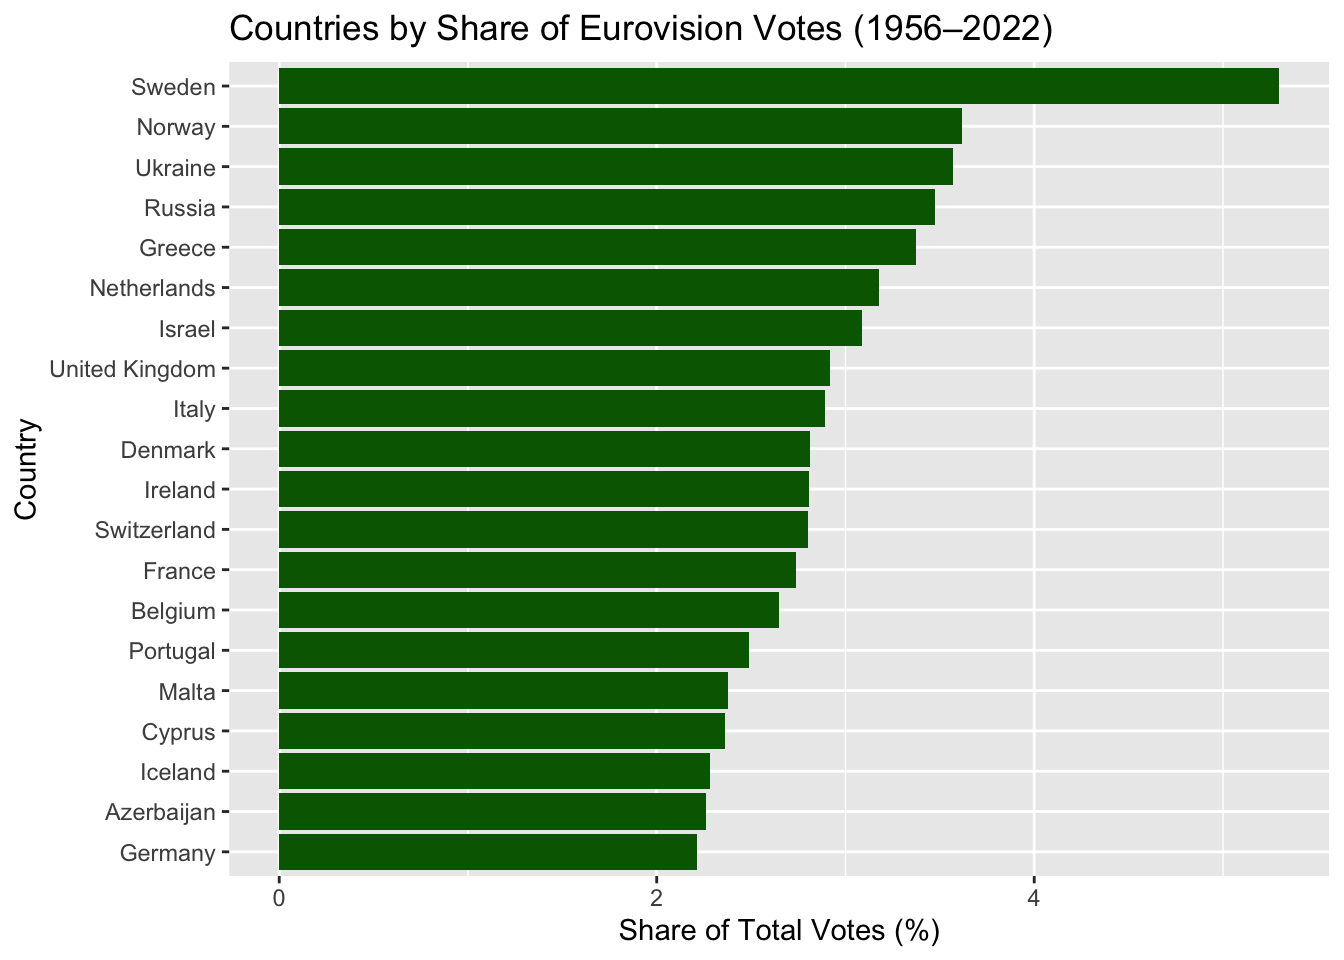
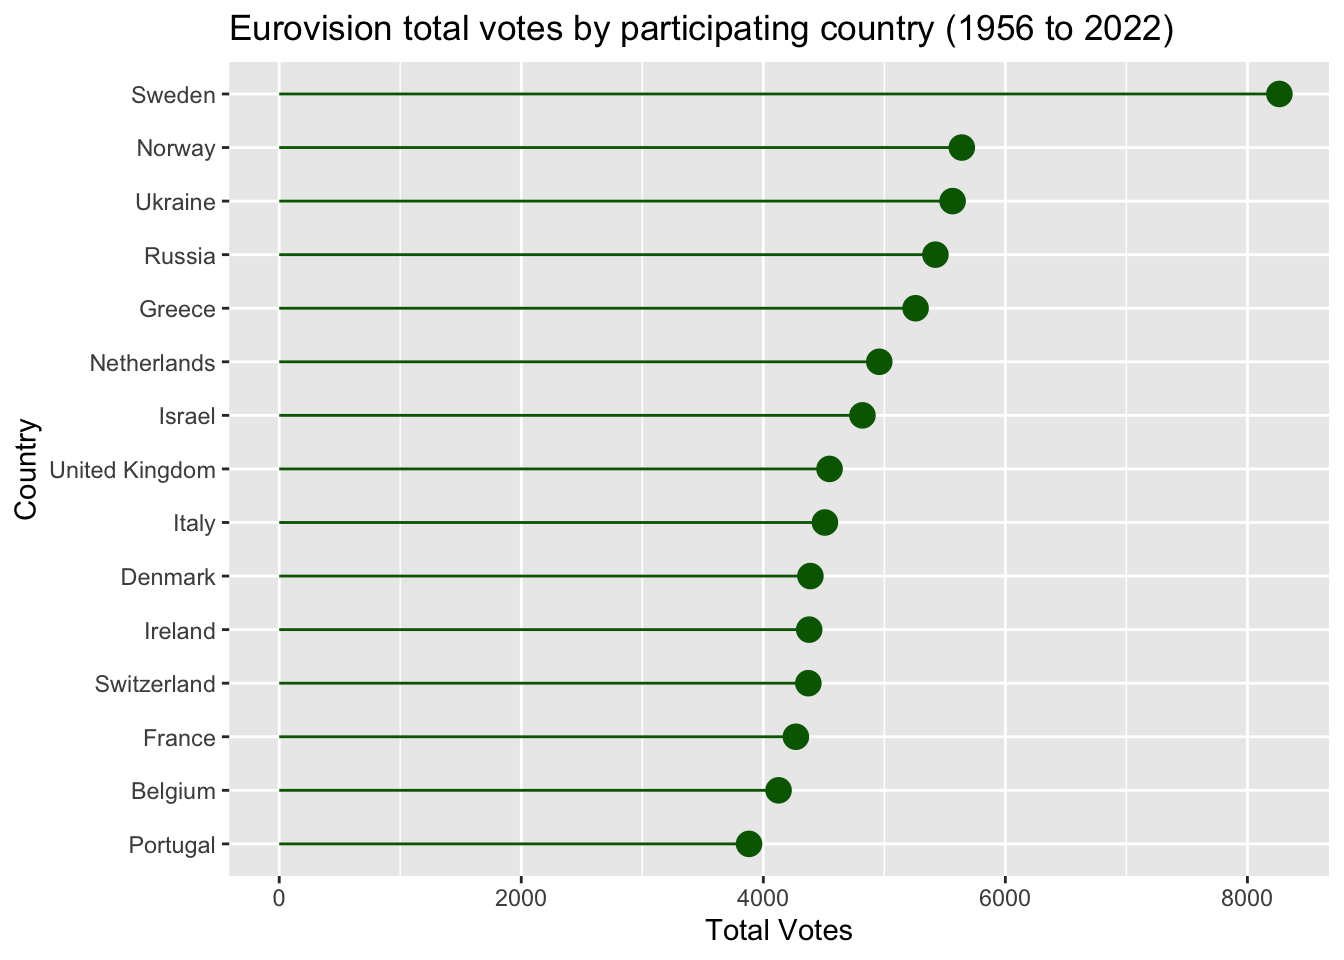
final eurovision project w/all feedback

diff --git a/docs/eurovision.html b/docs/eurovision.html
@@ -250,6 +250,7 @@ pre > code.sourceCode > span > a:first-child::before { text-decoration: underlin
 
 <p><strong>Source:</strong> TidyTuesday (Week 2022-05-17). Dataset accessed from the R4DS Online Learning Community: <a href="https://github.com/rfordatascience/tidytuesday" class="uri">https://github.com/rfordatascience/tidytuesday</a>.<br>
 <em>Original data: Country-to-country voting data sourced from Data.World (<a href="https://data.world/" class="uri">https://data.world/</a>).</em></p>
+<p>First, we count and rearrange the points received per each participating country</p>
 <div class="cell">
 <div class="code-copy-outer-scaffold"><div class="sourceCode cell-code" id="cb1"><pre class="sourceCode r code-with-copy"><code class="sourceCode r"><span id="cb1-1"><a href="#cb1-1" aria-hidden="true" tabindex="-1"></a><span class="fu">library</span>(tidyverse)</span>
 <span id="cb1-2"><a href="#cb1-2" aria-hidden="true" tabindex="-1"></a><span class="fu">library</span>(ggplot2)</span>
@@ -260,42 +261,48 @@ pre > code.sourceCode > span > a:first-child::before { text-decoration: underlin
 <span id="cb1-7"><a href="#cb1-7" aria-hidden="true" tabindex="-1"></a>  <span class="fu">group_by</span>(artist_country) <span class="sc">|&gt;</span></span>
 <span id="cb1-8"><a href="#cb1-8" aria-hidden="true" tabindex="-1"></a>  <span class="fu">summarise</span>(<span class="at">total_points =</span> <span class="fu">sum</span>(total_points, <span class="at">na.rm =</span> <span class="cn">TRUE</span>), <span class="at">.groups =</span> <span class="st">"drop"</span>) <span class="sc">|&gt;</span></span>
 <span id="cb1-9"><a href="#cb1-9" aria-hidden="true" tabindex="-1"></a>  <span class="fu">arrange</span>(<span class="fu">desc</span>(total_points)) <span class="sc">|&gt;</span></span>
-<span id="cb1-10"><a href="#cb1-10" aria-hidden="true" tabindex="-1"></a>  <span class="fu">slice_head</span>(<span class="at">n =</span> <span class="dv">15</span>)</span>
-<span id="cb1-11"><a href="#cb1-11" aria-hidden="true" tabindex="-1"></a></span>
-<span id="cb1-12"><a href="#cb1-12" aria-hidden="true" tabindex="-1"></a><span class="fu">ggplot</span>(count_points, <span class="fu">aes</span>(<span class="at">x =</span> <span class="fu">reorder</span>(artist_country, total_points), <span class="at">y =</span> total_points)) <span class="sc">+</span></span>
-<span id="cb1-13"><a href="#cb1-13" aria-hidden="true" tabindex="-1"></a>  <span class="fu">geom_point</span>(<span class="at">size =</span> <span class="dv">4</span>, <span class="at">color =</span> <span class="st">"darkgreen"</span>) <span class="sc">+</span></span>
-<span id="cb1-14"><a href="#cb1-14" aria-hidden="true" tabindex="-1"></a>  <span class="fu">geom_segment</span>(<span class="fu">aes</span>(<span class="at">x =</span> artist_country, <span class="at">xend =</span> artist_country,</span>
-<span id="cb1-15"><a href="#cb1-15" aria-hidden="true" tabindex="-1"></a>                   <span class="at">y =</span> <span class="dv">0</span>, <span class="at">yend =</span> total_points), <span class="at">color =</span> <span class="st">"darkgreen"</span>) <span class="sc">+</span></span>
-<span id="cb1-16"><a href="#cb1-16" aria-hidden="true" tabindex="-1"></a>  <span class="fu">coord_flip</span>() <span class="sc">+</span></span>
-<span id="cb1-17"><a href="#cb1-17" aria-hidden="true" tabindex="-1"></a>  <span class="fu">labs</span>(<span class="at">x =</span> <span class="st">"Country"</span>, <span class="at">y =</span> <span class="st">"Total Votes"</span>,</span>
-<span id="cb1-18"><a href="#cb1-18" aria-hidden="true" tabindex="-1"></a>       <span class="at">title =</span> <span class="st">"Eurovision total votes by participating country (1956 to 2022)"</span>)</span></code></pre></div><button title="Copy to Clipboard" class="code-copy-button"><i class="bi"></i></button></div>
-<div class="cell-output-display">
-<div>
-<figure class="figure">
-<p><img src="eurovision_files/figure-html/unnamed-chunk-1-1.png" class="img-fluid figure-img" width="672"></p>
-</figure>
+<span id="cb1-10"><a href="#cb1-10" aria-hidden="true" tabindex="-1"></a>  <span class="fu">slice_head</span>(<span class="at">n =</span> <span class="dv">15</span>)</span></code></pre></div><button title="Copy to Clipboard" class="code-copy-button"><i class="bi"></i></button></div>
 </div>
-</div>
-</div>
+<p>Now, let’s graph the total votes by participaing country.</p>
 <div class="cell">
-<div class="code-copy-outer-scaffold"><div class="sourceCode cell-code" id="cb2"><pre class="sourceCode r code-with-copy"><code class="sourceCode r"><span id="cb2-1"><a href="#cb2-1" aria-hidden="true" tabindex="-1"></a>share_points <span class="ot">&lt;-</span> eurovision <span class="sc">|&gt;</span></span>
-<span id="cb2-2"><a href="#cb2-2" aria-hidden="true" tabindex="-1"></a>  <span class="fu">group_by</span>(artist_country) <span class="sc">|&gt;</span></span>
-<span id="cb2-3"><a href="#cb2-3" aria-hidden="true" tabindex="-1"></a>  <span class="fu">summarise</span>(<span class="at">total_points =</span> <span class="fu">sum</span>(total_points, <span class="at">na.rm =</span> <span class="cn">TRUE</span>), <span class="at">.groups =</span> <span class="st">"drop"</span>)</span>
-<span id="cb2-4"><a href="#cb2-4" aria-hidden="true" tabindex="-1"></a></span>
-<span id="cb2-5"><a href="#cb2-5" aria-hidden="true" tabindex="-1"></a>share_points <span class="ot">&lt;-</span> share_points <span class="sc">|&gt;</span></span>
-<span id="cb2-6"><a href="#cb2-6" aria-hidden="true" tabindex="-1"></a>  <span class="fu">mutate</span>(<span class="at">perc_share =</span> total_points <span class="sc">/</span> <span class="fu">sum</span>(total_points) <span class="sc">*</span> <span class="dv">100</span>) <span class="sc">|&gt;</span></span>
-<span id="cb2-7"><a href="#cb2-7" aria-hidden="true" tabindex="-1"></a>  <span class="fu">arrange</span>(<span class="fu">desc</span>(perc_share))<span class="sc">|&gt;</span> </span>
-<span id="cb2-8"><a href="#cb2-8" aria-hidden="true" tabindex="-1"></a>  <span class="fu">slice_head</span>(<span class="at">n=</span><span class="dv">20</span>)</span>
-<span id="cb2-9"><a href="#cb2-9" aria-hidden="true" tabindex="-1"></a><span class="fu">ggplot</span>(share_points, <span class="fu">aes</span>(<span class="at">x =</span> <span class="fu">reorder</span>(artist_country, perc_share), <span class="at">y =</span> perc_share)) <span class="sc">+</span></span>
-<span id="cb2-10"><a href="#cb2-10" aria-hidden="true" tabindex="-1"></a>  <span class="fu">geom_col</span>(<span class="at">fill =</span> <span class="st">"darkgreen"</span>) <span class="sc">+</span></span>
-<span id="cb2-11"><a href="#cb2-11" aria-hidden="true" tabindex="-1"></a>  <span class="fu">coord_flip</span>() <span class="sc">+</span></span>
-<span id="cb2-12"><a href="#cb2-12" aria-hidden="true" tabindex="-1"></a>  <span class="fu">labs</span>(<span class="at">x =</span> <span class="st">"Country"</span>,</span>
-<span id="cb2-13"><a href="#cb2-13" aria-hidden="true" tabindex="-1"></a>       <span class="at">y =</span> <span class="st">"Share of Total Votes (%)"</span>,</span>
-<span id="cb2-14"><a href="#cb2-14" aria-hidden="true" tabindex="-1"></a>       <span class="at">title =</span> <span class="st">"Countries by Share of Eurovision Votes (1956–2022)"</span>)</span></code></pre></div><button title="Copy to Clipboard" class="code-copy-button"><i class="bi"></i></button></div>
+<div class="code-copy-outer-scaffold"><div class="sourceCode cell-code" id="cb2"><pre class="sourceCode r code-with-copy"><code class="sourceCode r"><span id="cb2-1"><a href="#cb2-1" aria-hidden="true" tabindex="-1"></a><span class="fu">ggplot</span>(count_points, <span class="fu">aes</span>(<span class="at">x =</span> <span class="fu">reorder</span>(artist_country, total_points), <span class="at">y =</span> total_points)) <span class="sc">+</span></span>
+<span id="cb2-2"><a href="#cb2-2" aria-hidden="true" tabindex="-1"></a>  <span class="fu">geom_point</span>(<span class="at">size =</span> <span class="dv">4</span>, <span class="at">color =</span> <span class="st">"darkgreen"</span>) <span class="sc">+</span></span>
+<span id="cb2-3"><a href="#cb2-3" aria-hidden="true" tabindex="-1"></a>  <span class="fu">geom_segment</span>(<span class="fu">aes</span>(<span class="at">x =</span> artist_country, <span class="at">xend =</span> artist_country,</span>
+<span id="cb2-4"><a href="#cb2-4" aria-hidden="true" tabindex="-1"></a>                   <span class="at">y =</span> <span class="dv">0</span>, <span class="at">yend =</span> total_points), <span class="at">color =</span> <span class="st">"darkgreen"</span>) <span class="sc">+</span></span>
+<span id="cb2-5"><a href="#cb2-5" aria-hidden="true" tabindex="-1"></a>  <span class="fu">coord_flip</span>() <span class="sc">+</span></span>
+<span id="cb2-6"><a href="#cb2-6" aria-hidden="true" tabindex="-1"></a>  <span class="fu">labs</span>(<span class="at">x =</span> <span class="st">"Country"</span>, <span class="at">y =</span> <span class="st">"Total Votes"</span>,</span>
+<span id="cb2-7"><a href="#cb2-7" aria-hidden="true" tabindex="-1"></a>       <span class="at">title =</span> <span class="st">"Eurovision total votes by participating country (1956 to 2022)"</span>)</span></code></pre></div><button title="Copy to Clipboard" class="code-copy-button"><i class="bi"></i></button></div>
 <div class="cell-output-display">
 <div>
 <figure class="figure">
 <p><img src="eurovision_files/figure-html/unnamed-chunk-2-1.png" class="img-fluid figure-img" width="672"></p>
+</figure>
+</div>
+</div>
+</div>
+<p>As an extra, let’s find the share of Eurovision votes by country.</p>
+<div class="cell">
+<div class="code-copy-outer-scaffold"><div class="sourceCode cell-code" id="cb3"><pre class="sourceCode r code-with-copy"><code class="sourceCode r"><span id="cb3-1"><a href="#cb3-1" aria-hidden="true" tabindex="-1"></a>share_points <span class="ot">&lt;-</span> eurovision <span class="sc">|&gt;</span></span>
+<span id="cb3-2"><a href="#cb3-2" aria-hidden="true" tabindex="-1"></a>  <span class="fu">group_by</span>(artist_country) <span class="sc">|&gt;</span></span>
+<span id="cb3-3"><a href="#cb3-3" aria-hidden="true" tabindex="-1"></a>  <span class="fu">summarise</span>(<span class="at">total_points =</span> <span class="fu">sum</span>(total_points, <span class="at">na.rm =</span> <span class="cn">TRUE</span>), <span class="at">.groups =</span> <span class="st">"drop"</span>)</span>
+<span id="cb3-4"><a href="#cb3-4" aria-hidden="true" tabindex="-1"></a></span>
+<span id="cb3-5"><a href="#cb3-5" aria-hidden="true" tabindex="-1"></a>share_points <span class="ot">&lt;-</span> share_points <span class="sc">|&gt;</span></span>
+<span id="cb3-6"><a href="#cb3-6" aria-hidden="true" tabindex="-1"></a>  <span class="fu">mutate</span>(<span class="at">perc_share =</span> total_points <span class="sc">/</span> <span class="fu">sum</span>(total_points) <span class="sc">*</span> <span class="dv">100</span>) <span class="sc">|&gt;</span></span>
+<span id="cb3-7"><a href="#cb3-7" aria-hidden="true" tabindex="-1"></a>  <span class="fu">arrange</span>(<span class="fu">desc</span>(perc_share))<span class="sc">|&gt;</span> </span>
+<span id="cb3-8"><a href="#cb3-8" aria-hidden="true" tabindex="-1"></a>  <span class="fu">slice_head</span>(<span class="at">n=</span><span class="dv">20</span>)</span></code></pre></div><button title="Copy to Clipboard" class="code-copy-button"><i class="bi"></i></button></div>
+</div>
+<p>Now, let’s plot it.</p>
+<div class="cell">
+<div class="code-copy-outer-scaffold"><div class="sourceCode cell-code" id="cb4"><pre class="sourceCode r code-with-copy"><code class="sourceCode r"><span id="cb4-1"><a href="#cb4-1" aria-hidden="true" tabindex="-1"></a><span class="fu">ggplot</span>(share_points, <span class="fu">aes</span>(<span class="at">x =</span> <span class="fu">reorder</span>(artist_country, perc_share), <span class="at">y =</span> perc_share)) <span class="sc">+</span></span>
+<span id="cb4-2"><a href="#cb4-2" aria-hidden="true" tabindex="-1"></a>  <span class="fu">geom_col</span>(<span class="at">fill =</span> <span class="st">"darkgreen"</span>) <span class="sc">+</span></span>
+<span id="cb4-3"><a href="#cb4-3" aria-hidden="true" tabindex="-1"></a>  <span class="fu">coord_flip</span>() <span class="sc">+</span></span>
+<span id="cb4-4"><a href="#cb4-4" aria-hidden="true" tabindex="-1"></a>  <span class="fu">labs</span>(<span class="at">x =</span> <span class="st">"Country"</span>,</span>
+<span id="cb4-5"><a href="#cb4-5" aria-hidden="true" tabindex="-1"></a>       <span class="at">y =</span> <span class="st">"Share of Total Votes (%)"</span>,</span>
+<span id="cb4-6"><a href="#cb4-6" aria-hidden="true" tabindex="-1"></a>       <span class="at">title =</span> <span class="st">"Countries by Share of Eurovision Votes (1956–2022)"</span>)</span></code></pre></div><button title="Copy to Clipboard" class="code-copy-button"><i class="bi"></i></button></div>
+<div class="cell-output-display">
+<div>
+<figure class="figure">
+<p><img src="eurovision_files/figure-html/unnamed-chunk-4-1.png" class="img-fluid figure-img" width="672"></p>
 </figure>
 </div>
 </div>
